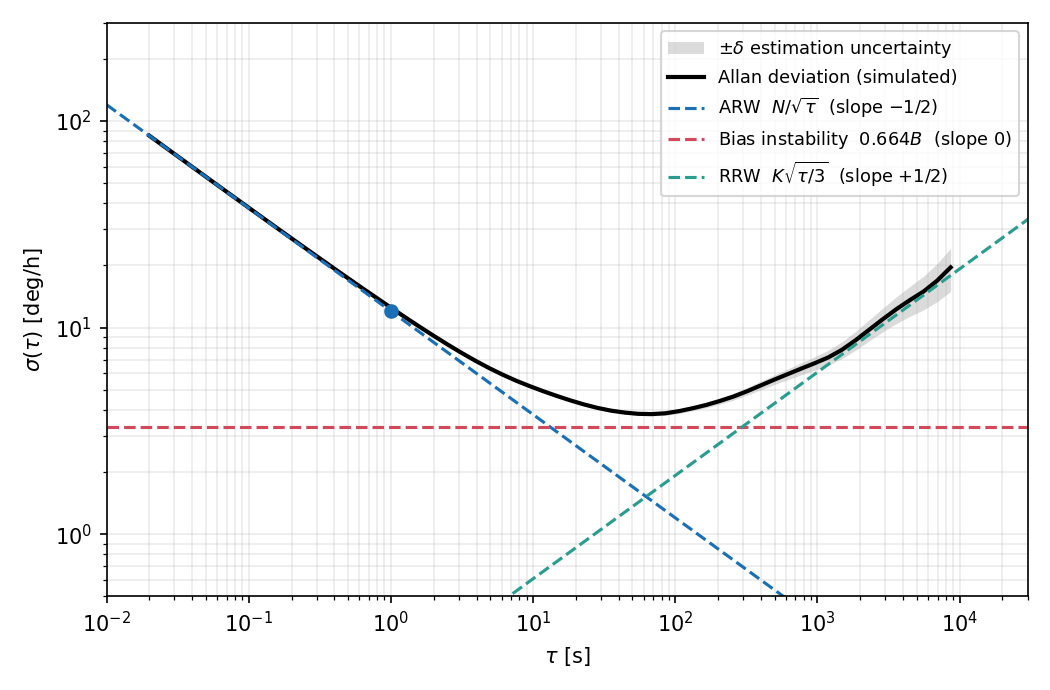
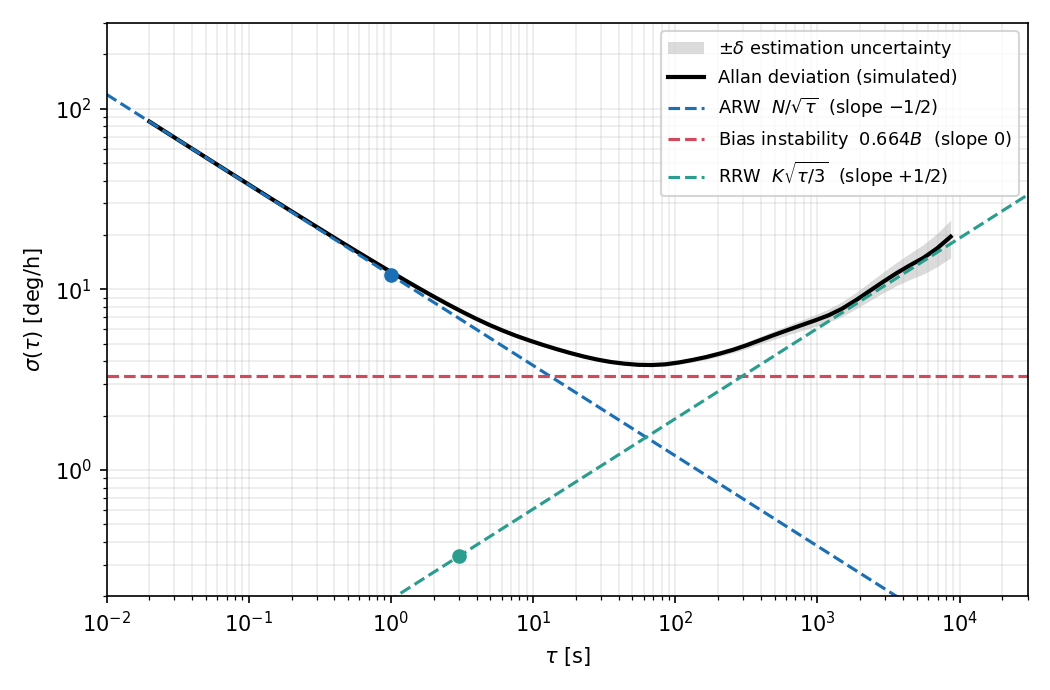
Second review pass on Allan variance post
- Read ARW from the fitted -1/2 line (0.200); show the RRW read-off point
- Explain dividing by 60 (N) / multiplying by 60 (K) when sigma is in deg/h
- Note vendors often quote the Allan floor itself, not floor/0.664
- Fix sqrt(2) example (0.025 m/s/sqrt(h)), panel (b) caption, index notation
- Add Earth rate, 1-sigma wording, quantization sources, Gauss-Markov
  approximation of 1/f, and non-stationary bumps as caveats

diff --git a/dokodemo/posts/2026-11-19-1/allan.py b/dokodemo/posts/2026-11-19-1/allan.py
@@ -47,11 +47,13 @@ def adev(omega, fs, n_tau=60):
 tau, sig = adev(omega, fs)
 
 # read the parameters back off the curve
-N_hat = np.interp(0, np.log10(tau), sig)                 # sigma at tau = 1 s
+N_curve = np.interp(0, np.log10(tau), sig)               # curve value at tau = 1 s (slightly high)
+short = tau < 0.1                                        # region where the -1/2 slope dominates
+N_hat = np.median(sig[short] * np.sqrt(tau[short]))      # -1/2 line evaluated at tau = 1 s
 B_hat = sig.min() / np.sqrt(2 * np.log(2) / np.pi)       # flat bottom / 0.664
 long = tau > 2000                                        # region where the +1/2 slope dominates
 K_hat = np.median(sig[long] * np.sqrt(3 / tau[long]))    # extend that line back to tau = 3 s
-print(f"N  true {N*60:.3f}  read {N_hat*60:.3f} deg/sqrt(h)")
+print(f"N  true {N*60:.3f}  read {N_hat*60:.3f} deg/sqrt(h)  (curve at 1 s: {N_curve*60:.3f})")
 print(f"B  true {B*3600:.2f}  read {B_hat*3600:.2f} deg/h")
 print(f"K  true {K*3600*60:.2f}  read {K_hat*3600*60:.2f} deg/h/sqrt(h)")
 
@@ -68,7 +70,7 @@ ax.loglog(t, 0 * t + 0.664 * B * to_h, "--", c="#d1495b", label=r"Bias instabili
 ax.loglog(t, K * np.sqrt(t / 3) * to_h, "--", c="#2a9d8f", label=r"RRW  $K\sqrt{\tau/3}$  (slope $+1/2$)")
 ax.plot(1, N * to_h, "o", c="#1b6fb5")
 ax.plot(3, K * to_h, "o", c="#2a9d8f")
-ax.set(xlabel=r"$\tau$ [s]", ylabel=r"$\sigma(\tau)$ [deg/h]", xlim=(1e-2, 3e4), ylim=(0.5, 300))
+ax.set(xlabel=r"$\tau$ [s]", ylabel=r"$\sigma(\tau)$ [deg/h]", xlim=(1e-2, 3e4), ylim=(0.2, 300))
 ax.grid(True, which="both", alpha=0.25)
 ax.legend(fontsize=8.5, loc="upper right")
 fig.tight_layout()
